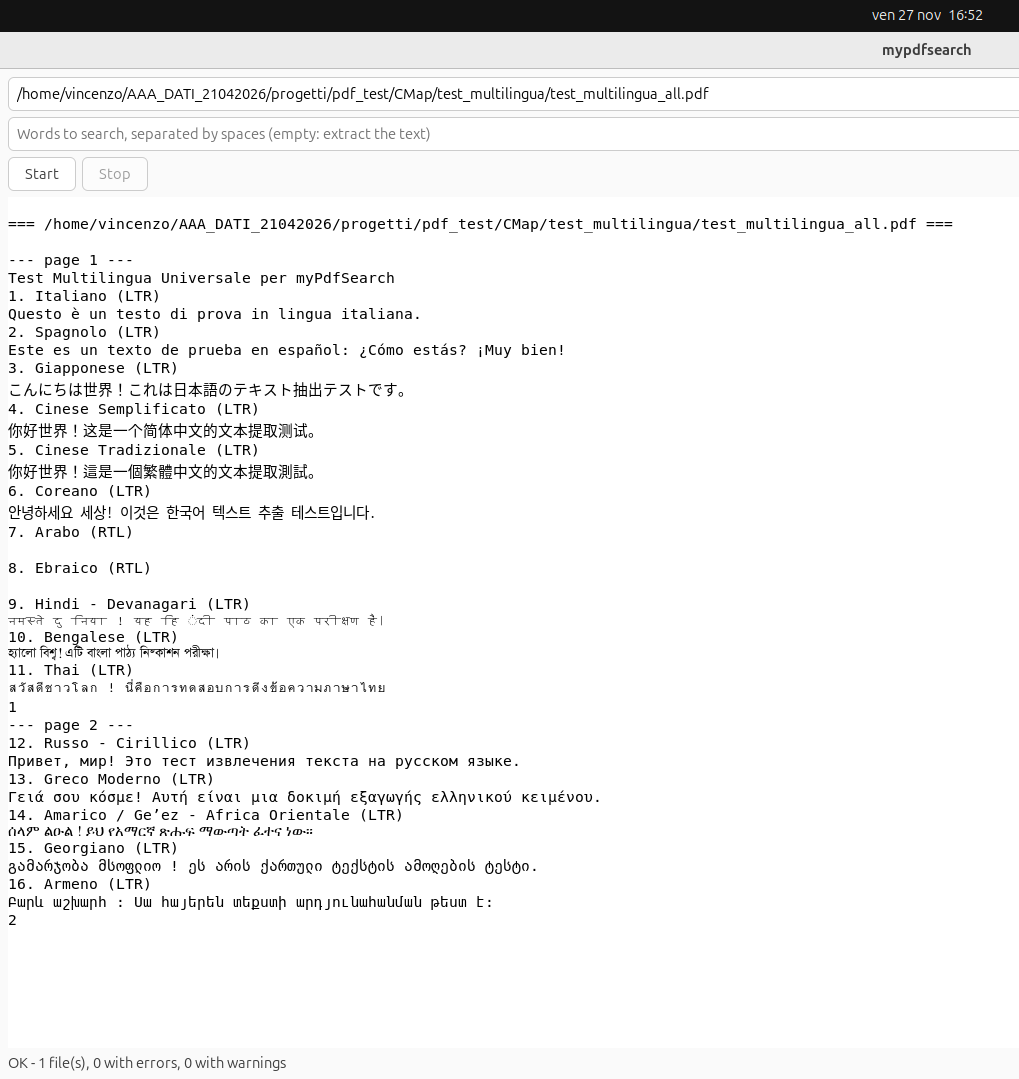
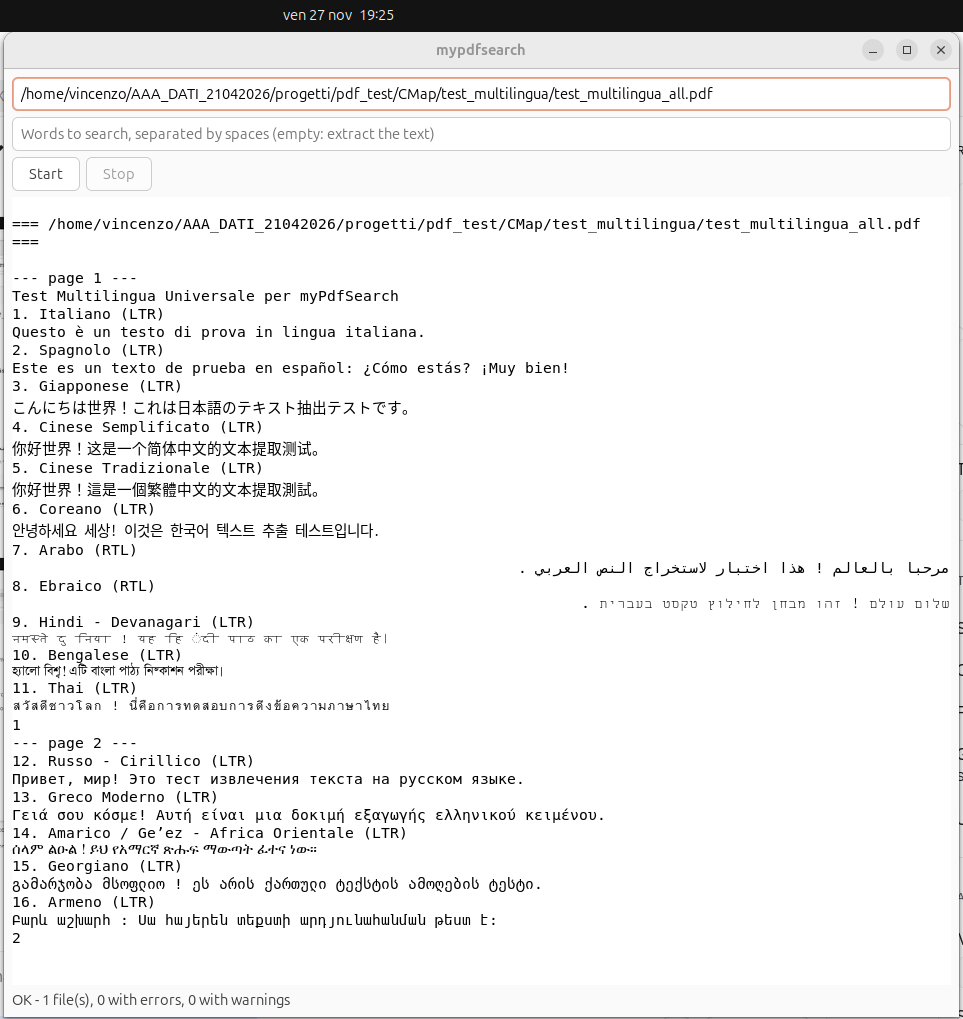
Update README screenshots: add console example, update GTK4 extraction, remove launch image

diff --git a/README.md b/README.md
@@ -195,15 +195,17 @@ gcc my_app.c \$(pkg-config --cflags --libs mypdfsearch) -o my_app
 
 The `examples/` directory includes complete integration examples demonstrating how to call `libmypdfsearch` from C, C++, Python, C#, and GTK4.
 
+#### C Console Example (`examples/c/console`)
+
+1. **Full Unicode text extraction console:**
+
+   <img src="docs/images/console_multilingual_extract.png" alt="Estrazione di testo completo in Unicode attraverso 16 sistemi di scrittura" width="800">
+   
+   *Figure 1: Extracting the complete text (console mode) of a document.*
+
 #### GTK4 GUI Example (`examples/c/gtk4`)
 
 When built with `--enable-examples` (with `libgtk-4-dev` installed), the C/GTK4 sample application provides a graphical interface for searching keywords and extracting text across files and directories:
-
-1. **Launching the GTK4 application (`./mypdfsearch-gtk4`):**
-
-   <img src="docs/images/gtk4_launch.png" alt="Interfaccia grafica GTK4 di myPdfSearch all'avvio con i campi di ricerca vuoti" width="800">
-   
-   *Figure 1: Launching the GTK4 application (./mypdfsearch-gtk4) from the terminal. The GUI provides fields to specify a target PDF file or directory and the keywords to search for.*
 
 2. **Multilingual keyword search (`тест testo мир! Georgiano`) on `test_multilingua_all.pdf`:**
 
